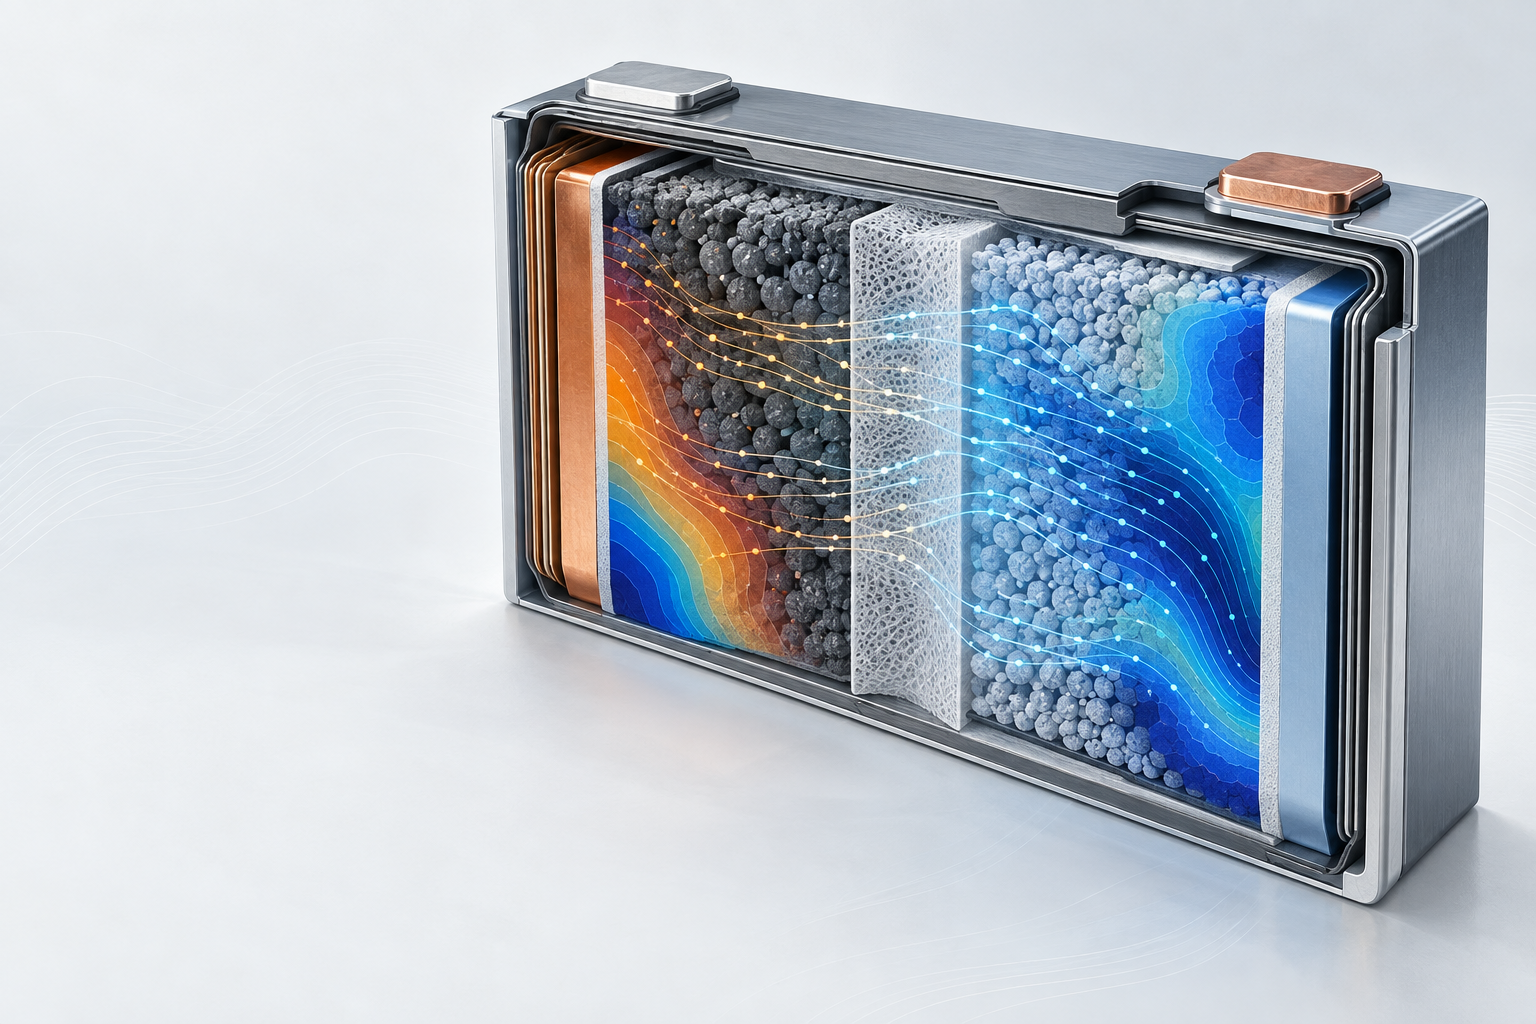
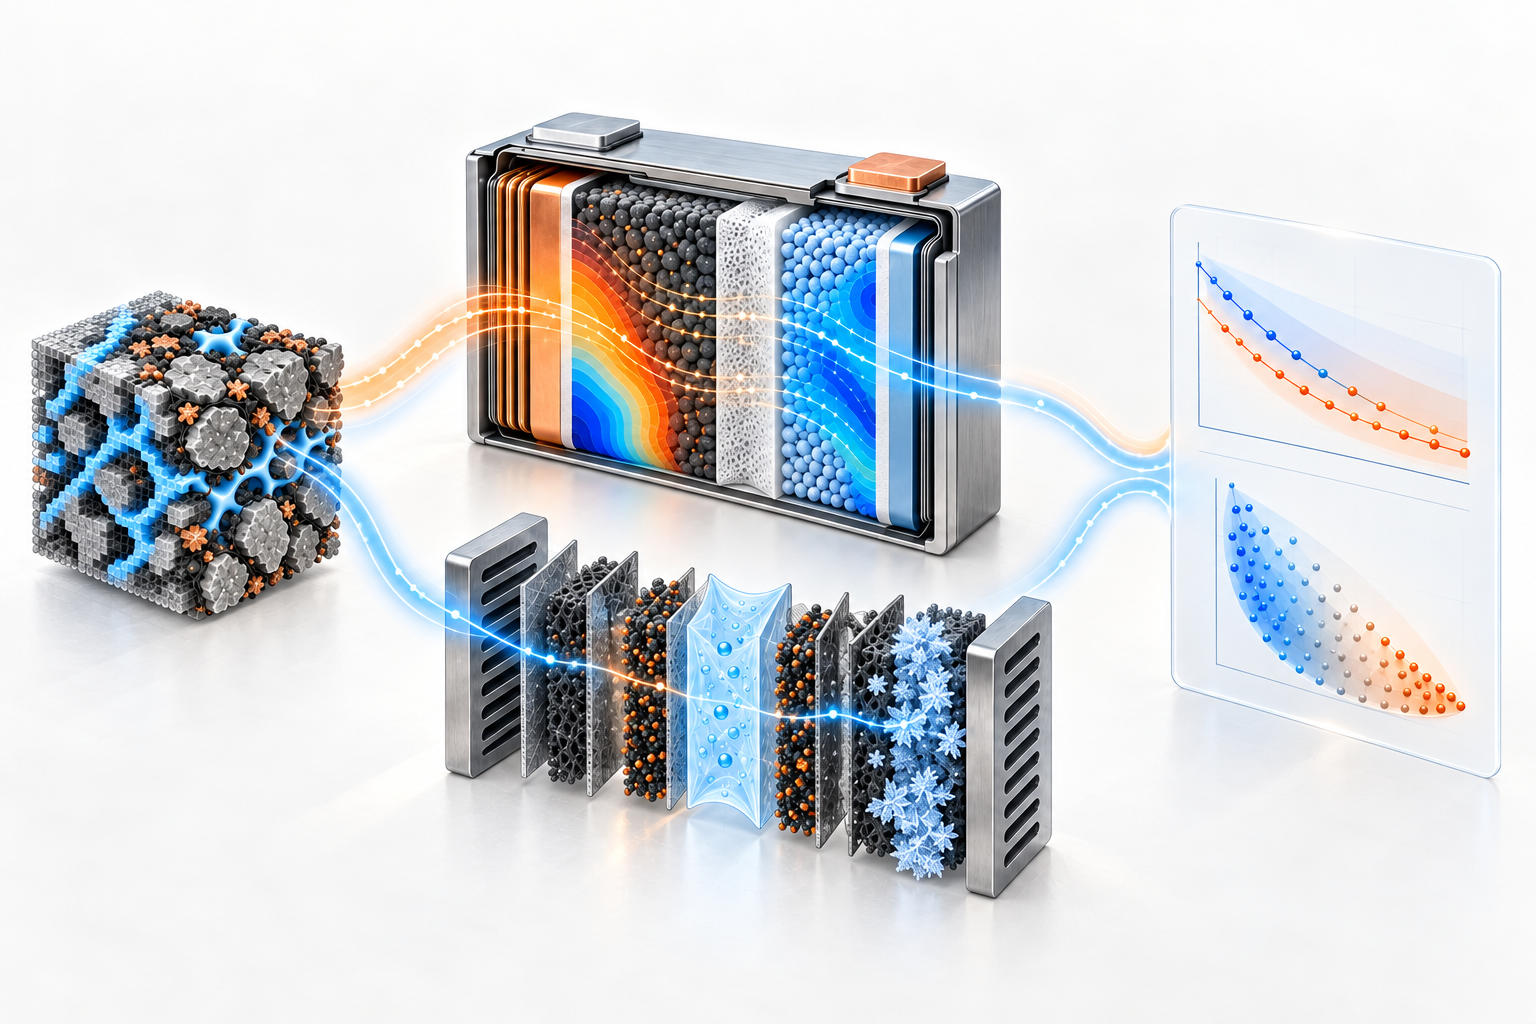
content: 更新首页 hero 示意图与图注文案
hero 图替换为覆盖多孔电极、磷酸铁锂电池、燃料电池冷启动与算法
预测研究链路的新示意图，alt 与 figcaption 同步改为
STRUCTURE · PHYSICS · INTELLIGENCE。

diff --git a/layouts/home.html b/layouts/home.html
@@ -16,8 +16,8 @@
       </div>
     </div>
     <figure class="lab-hero__figure">
-      {{ with $heroDisplay }}<img src="{{ .RelPermalink }}" width="{{ .Width }}" height="{{ .Height }}" alt="磷酸铁锂电池电极、隔膜及温度与浓度场的工程示意图">{{ end }}
-      <figcaption>FIG. 01 · CELL-LEVEL MULTIPHYSICS FIELD</figcaption>
+      {{ with $heroDisplay }}<img src="{{ .RelPermalink }}" width="{{ .Width }}" height="{{ .Height }}" alt="多孔电极、磷酸铁锂电池、燃料电池冷启动与算法预测的研究链路示意图">{{ end }}
+      <figcaption>FIG. 01 · STRUCTURE · PHYSICS · INTELLIGENCE</figcaption>
     </figure>
   </section>
 
